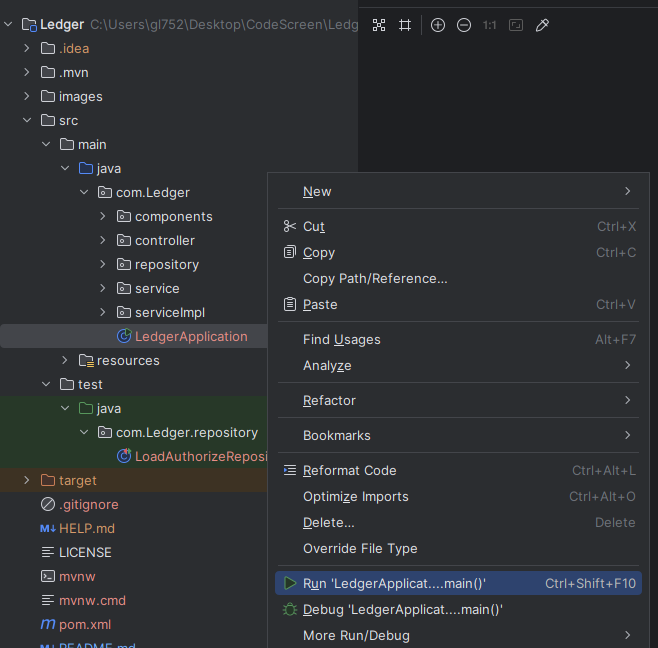
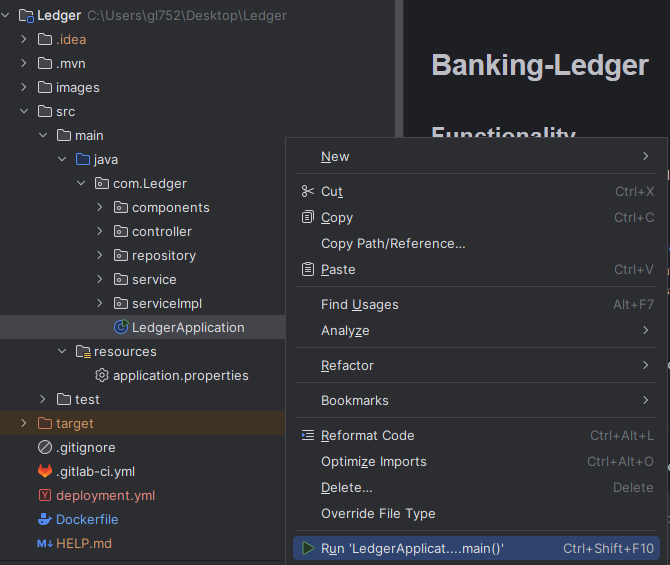
updated readme

diff --git a/README.md b/README.md
@@ -2,15 +2,20 @@
 
 ## Functionality
 
-This application is used to keep track of deposits and withdrawals.
+This application is used to keep track of deposits and withdrawals for various users
 
-Some requirements for the service are:
+Some requirements for requests for the service are:
 - all loads have a DebitCredit value of CREDIT and all authorizations have a DebitCredit value of DEBIT
 - currency used is the same denomination throughout
 - each load or authorization value must have a non-negative amount, if specified
+- if a user does not have sufficient funds, the withdrawal will not go through
 
-One function of the service is:
+An additional function of the service is:
 - when an authorization is declined and is followed by a load without a specified amount, then the load's amount will have a value equal to that of the declined authorization's, and will be added to the declined account's balance
+
+This simulates completing a transaction by adding funds from any source, regardless of user. This means that another user can help complete the transaction if necessary.
+
+The format for [requests](src/main/java/com/Ledger/components/requestBodies) to make deposits and withdrawals can be found in src > main > java > com > Ledger > components > requestBodies
 
 [//]: # (This assumption comes from the provided [sample_tests]&#40;src/test/java/resources/sample_tests&#41;. We can see that after a declined authorization, the amount is added to the account, even though the user is different for the following load:)
 
@@ -24,11 +29,28 @@ One function of the service is:
 
 ## How to run this server locally
 
+### Running using your IDE (IntelliJ)
 Right click [LedgerApplication](src/main/java/com/Ledger/LedgerApplication.java) under Ledger > src > main > java > com.Ledger > LedgerApplication, and then click "Run":
 
 
 ![Run RunApplication](/images/RunApplication.png)
 
+### Running through your CLI
+
+- If you have java and maven installed and set up, you can also open your CLI
+- Set your path to the path of the project 
+- Run the command "mvn clean install" to compile the application
+- Run "java -jar ./target/Ledger-0.0.1.jar"
+
+### Running using Docker
+
+You can also run this application using Docker
+
+- Start the daemon
+- Open your CLI
+- Set your path to the path of the project
+- Run "docker build -t ledgerapp ." to build the image
+- Run "docker run ledgerapp"
 
 The port is set to 8080, so you can send requests locally to http://localhost:8080/
 <br>
